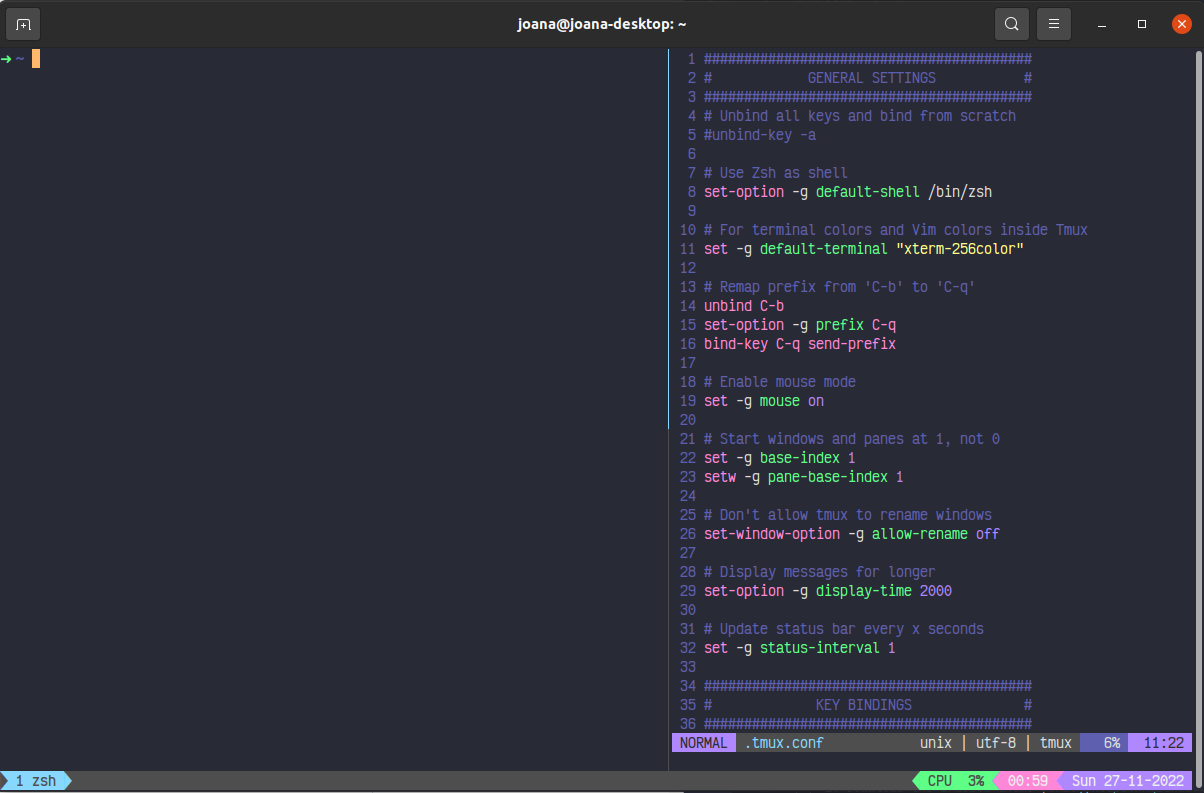
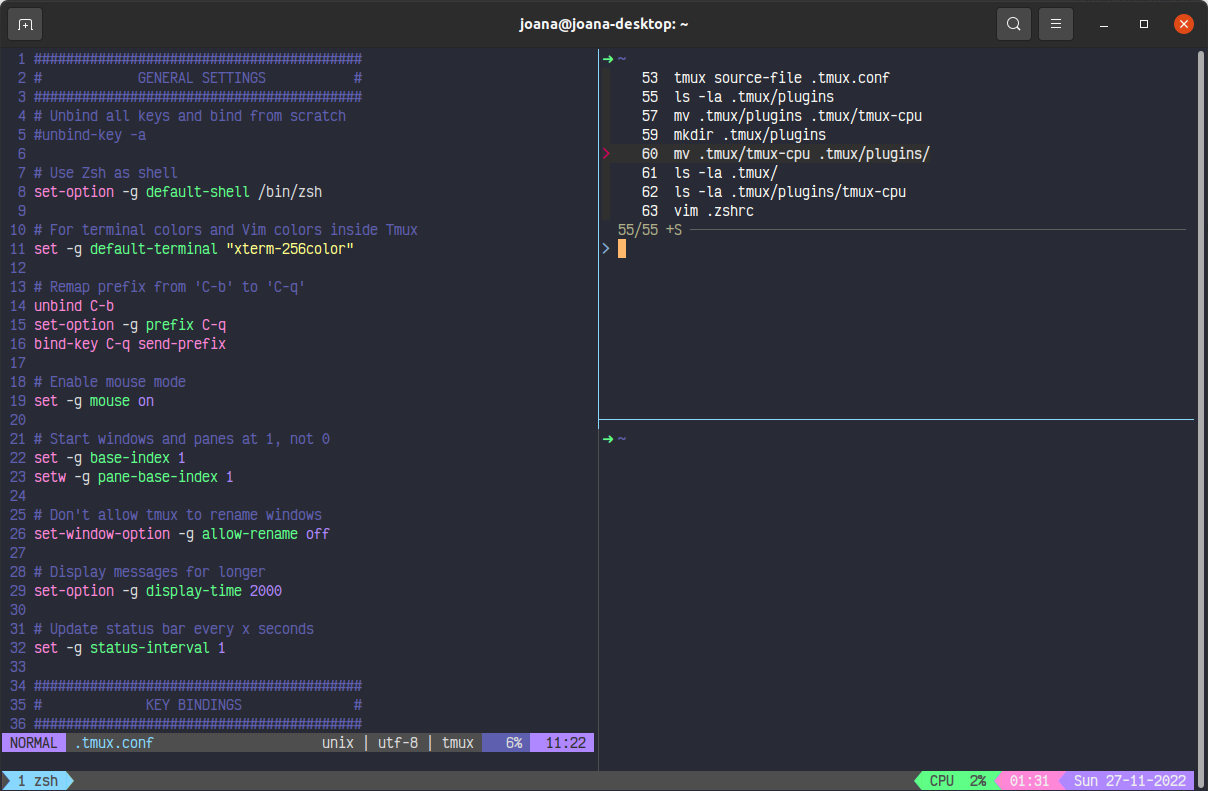
Included fzf installation and screenshot

diff --git a/README.md b/README.md
@@ -1,27 +1,23 @@
 # dotfiles by joanaasaa
 
 ![A very Dracula screenshot](resources/screenshot.png "A very Dracula screenshot")
-<p align="center">🧛 Dracula for gnome-terminal, zsh, tmux and vim using the Viktor Mono font 🧛</p>
+**<p align="center">🧛 Dracula for gnome-terminal, zsh, tmux and vim using Viktor Mono font 🧛</p>**
 
 ## Environment
 
-The repo includes Dracula themed rc files for the following apps:
-- gnome-terminal (`dracula-zsh.dconf` file)
-- zsh using oh-my-zsh (`.zshrc` and `dracula.zsh-theme` file)
-- vim (`.vimrc` file)
-- tmux (`.tmux.conf` file)
+- gnome-terminal
+- zsh using oh-my-zsh
+- vim
+- tmux
 
 ## Features
 
-- Includes rc files for the following apps:
-    - gnome-terminal (`dracula-zsh.dconf`)
-    - zsh using oh-my-zsh (`.zshrc`)
-    - vim (`.vimrc`)
-- Configuration file for tmux (`.tmux.conf`)
 - Syntax highlighting with Dracula colors through oh-my-zsh plugin
 - Custom tmux theme with Dracula colors, datetime and CPU usage
+- tmux keybindings
 - Altered zsh theme (through oh-my-zsh) to have official Dracula colors
-- Includes simple vim configuration with lightline
+- Simple vim configuration with lightline
+- Fuzzy finder installation
 
 ## Setup
 
@@ -46,7 +42,7 @@ I used Zeno Rocha's Dracula theme (which you can find on [this](https://draculat
     4. To use Zeno's Dracula palette do: `cp zsh-master/lib/async.zsh ~/.oh-my-zsh/themes/lib/`\
     To use my Dracula palette do: `cp dotfiles/dracula.zsh-theme ~/.oh-my-zsh/themes/`
     5. To install the syntax highlighting: `git clone https://github.com/zsh-users/zsh-syntax-highlighting.git ${ZSH_CUSTOM:-~/.oh-my-zsh/custom}/plugins/zsh-syntax-highlighting`\
-    _NOTE_ The `.zshrc` file already includes     dracula colors for the syntax highlighting plugin
+    _NOTE_ The `.zshrc` file already includes dracula colors for the syntax highlighting plugin
 
 5. For vim:
     1. Install [vim-plug](https://github.com/junegunn/vim-plug): `curl -fLo ~/.vim/autoload/plug.vim --create-dirs https://raw.githubusercontent.com/junegunn/vim-plug/master/plug.vim`
@@ -56,6 +52,15 @@ I used Zeno Rocha's Dracula theme (which you can find on [this](https://draculat
 6. For tmux:
     1. Install the tmux-cpu plugin: `git clone https://github.com/tmux-plugins/tmux-cpu ~/.tmux/plugins/tmux-cpu`
     2. Restart tour tmux server
+
+7. Fuzzy Finder:
+    1. Install fzf using the following commands:
+        ```sh
+        git clone --depth 1 https://github.com/junegunn/fzf.git ~/.fzf
+        ~/.fzf/install
+        ```
+    2. **DURING INSTALLATION** Enable fzf autocompletion and key bindings. Say no to shell configuration file update
+    
       
 
 **<p align="center">🎉 Congratulations, you're all set! 🎉</p>**
